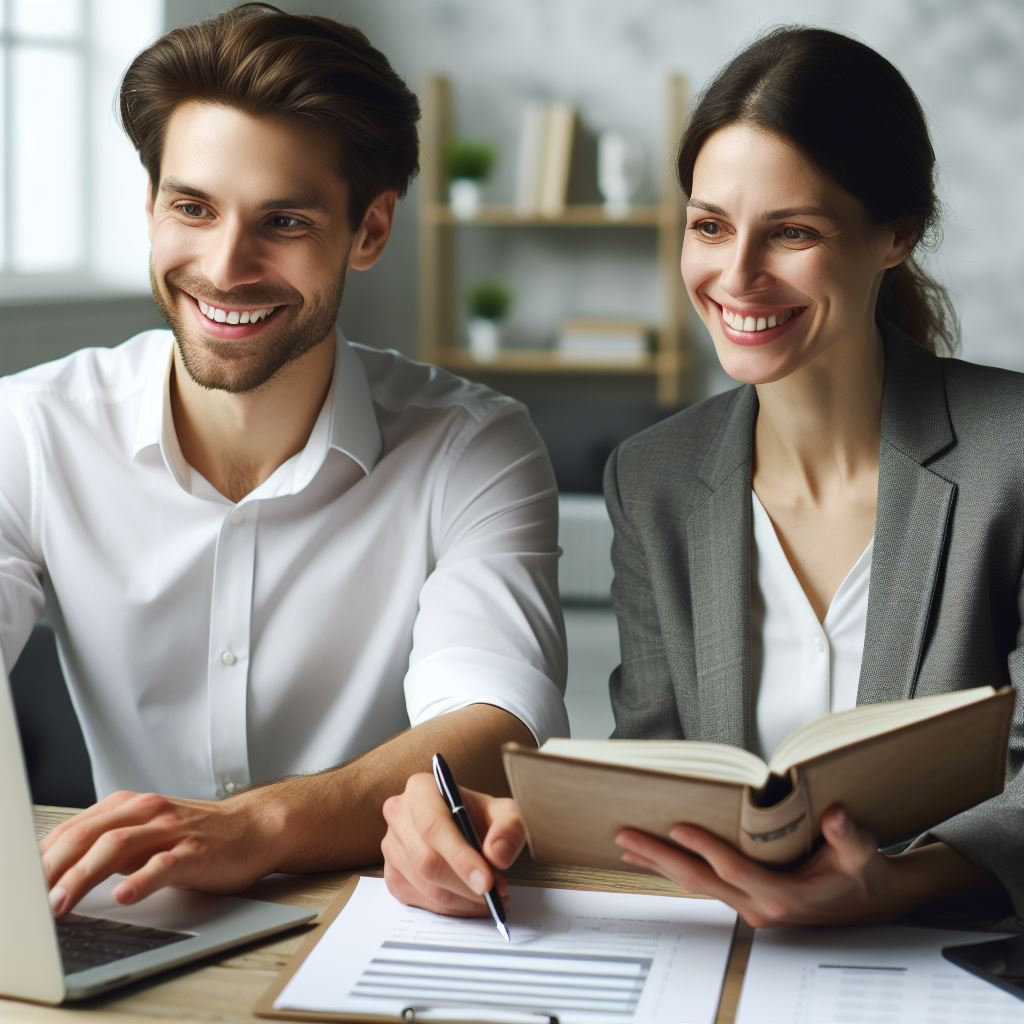
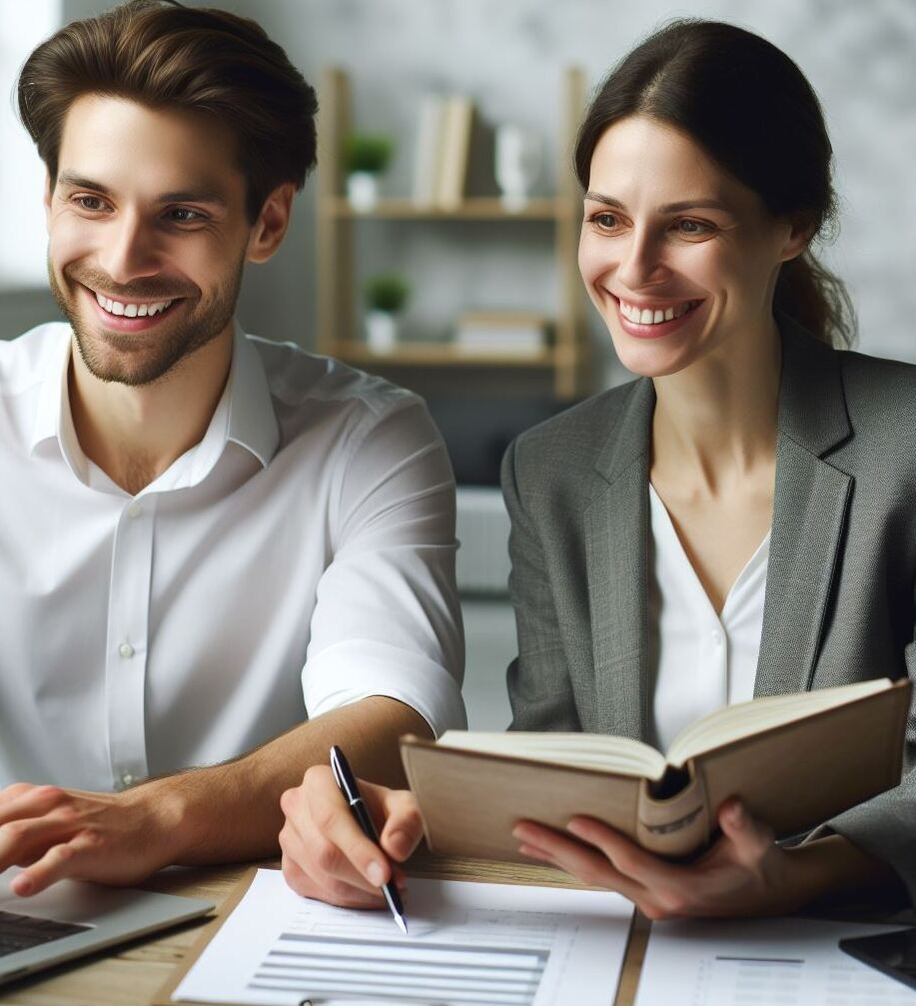
Adjust home page layout
Crop photo to make it smaller and get rid of man's fingers
Resize CompanyBusiness component to make it appropriate form 800 up to 1200 pixels width screen
Adjust height and top position oh photo

diff --git a/pages/index.vue b/pages/index.vue
@@ -3,7 +3,7 @@
  <div class="hero-img">
   <img src="assets/img/happyPeopleInFrontOfPC_business_suit.jpeg" alt="happy people working with PC and ledger"></img>
  </div>   
-    <div class="company-business"><CompanyTitle /><CompanyBusiness /></div>
+    <div class="company-features"><CompanyTitle /><CompanyBusiness /></div>
     <img
       class="background-img"
       src="assets/img/background-image-metier.jpeg"
@@ -62,7 +62,7 @@ $base-red: #b12434;
   background-color: $base-blue;
   color: white;
   height: 90vh;
-  .company-business {
+  .company-features {
     position: absolute;
     top: 42.2vh;
     left: 2vw;
@@ -71,9 +71,8 @@ $base-red: #b12434;
     position: absolute;
     right: 0;
     margin-right: 1.6rem;
-    top: 12.5vh;
-    width: 80vw;
-    height: 39vh;
+    top: 15.5vh;
+    height: 36vh;
     overflow: hidden;
     z-index:10;
     img{ 

diff --git a/components/CompanyBusiness.vue b/components/CompanyBusiness.vue
@@ -10,24 +10,24 @@
 $base-blue: #7d93b5;
 $dark-blue: #425b8a;
 .company-activity {
-  margin: 5rem 0 0 4rem;
+  margin: 6rem 0 0 4rem;
   color: #e9ecf2;
   background: linear-gradient(
     0.25turn,
     $dark-blue,
     $dark-blue,
     $dark-blue,
-    $base-blue,
     $base-blue
   );
   display: flex;
   align-items: center;
   justify-content: flex-start;
   padding: 1rem 0 1rem 1rem;
-  font-size: 1.3rem;
+  font-size: 1.2rem;
+  font-weight: 500;
   letter-spacing: 1.2px;
   text-shadow: 1px 1px 1px black;
-  width: 75vw;
+  width: 60vw;
   min-height: 4vh;
   box-shadow: -4px 0px;
 }

diff --git a/components/CompanyTitle.vue b/components/CompanyTitle.vue
@@ -29,7 +29,7 @@ $dark-blue: #425b8a;
   display: flex;
   align-items: center;
   justify-content: center;
-  font-size: 2.1rem;
+  font-size: 2rem;
   text-shadow: 2px 2px 6px $base-blue;
   font-weight: bold;
   letter-spacing: 1.4px;
